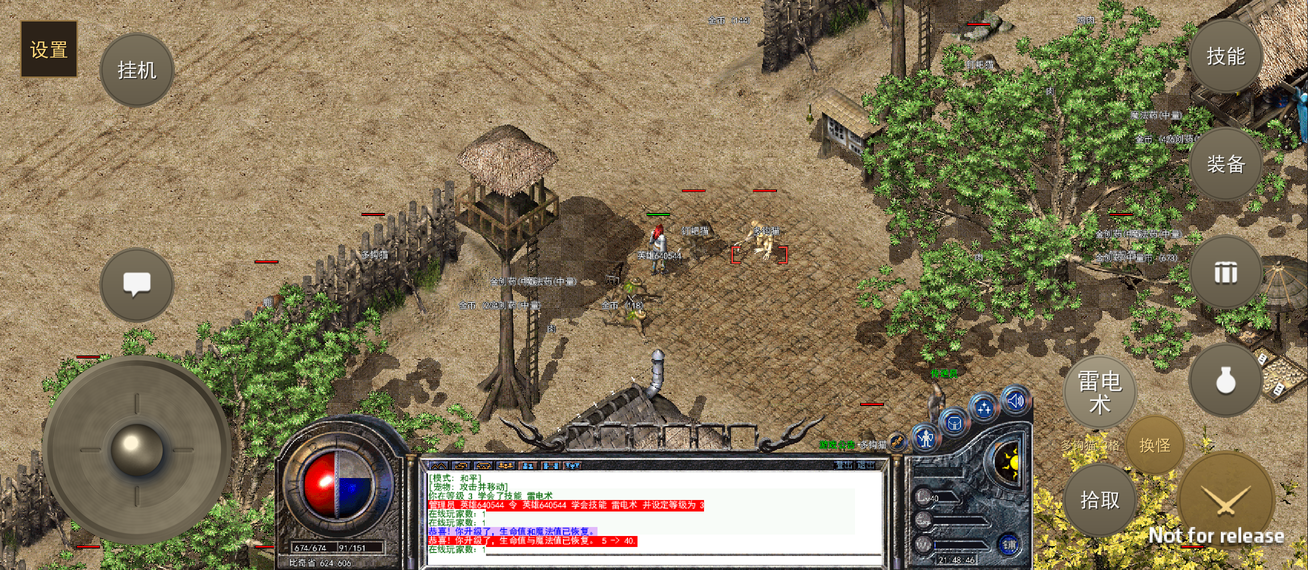
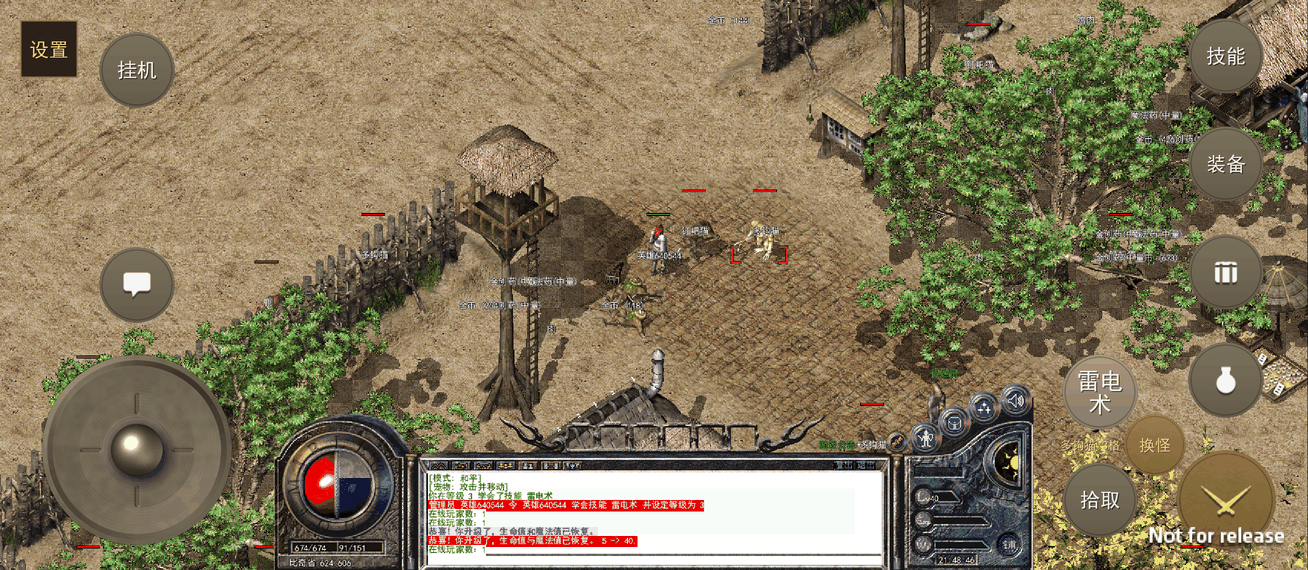
README 与实际代码对齐；补社区文件；修 LICENSE 被识别成 NOASSERTION
README 重写
- 顶部加 release / MIT / 引擎三个 badge，并把 APK 下载入口放到最显眼处
- 新增「自己编译需要什么」：如实列出三样缺件（MirClientCore.dll / Resources 图集 /
  StreamingAssets 682MB），并写明「现在 clone 下来是打不开也编译不过的」
- 场景：写明 13 个里 12 个是空的、唯一进包的 P2.unity 是空场景、画面靠
  RuntimeInitializeOnLoadMethod 自举
- 格式：写明 %TAG 是团结私有 tag、.meta 的 guid 是 56 字符 base64，建议用团结 1.10.4
- 出包：改成命令行 -executeMethod P2Build.SetPathsOnly / BuildApk，并注明 P2Build
  没有 [MenuItem]，编辑器菜单里点不到
- 技能：33 个 → 3 个（火球 / 雷电 / 治愈，P0HSkill.cs:26-27 SK_COUNT = 3）
- 选角：建角 → 选角。创建/删除人物按钮是 NotWired，会提示「本版没接账号服务器」
- 联机：补上公网中继这一路（test.mosquitto.org，6 位 Crockford Base32 码，
  实测往返 0.3~1.7 秒），并说明为什么不直连（入站端口被运营商封）
- 邮件 / 回购：从「已完成」移回「空壳」
- 去掉查不到出处的数字：85%/88% 进度、IoU = 1.0000、4.66 万行、
  27→18 本书、3081→2420 刷怪点
- 许可：拆成三段 —— 代码 MIT / MirClientCore 源自 Crystal (GPL v2) / 素材归原厂

LICENSE
- 切掉文末「NOTE ON ASSETS」附加段，恢复标准 MIT（1497 → 1066 字节），
  GitHub 才能识别成 MIT 而不是 NOASSERTION。素材与许可说明已移入 README。

截图
- 三张 PNG 做调色板量化压缩，4.0 MB → 1.5 MB（meanAbsDiff ≈ 3.2，肉眼看不出）

新增
- .gitattributes：统一 eol=lf，二进制类型标注，Unity YAML 走 unityyamlmerge
- CONTRIBUTING.md：反馈入口、Bug 报告必填项、禁止附带任何游戏素材
- .github/ISSUE_TEMPLATE/bug_report.md、feature_request.md

diff --git a/CONTRIBUTING.md b/CONTRIBUTING.md
@@ -1,0 +1,34 @@
+# 贡献与反馈
+
+这个项目是个人学习 Unity / 游戏客户端架构的实践工程，没有商业目标。欢迎提问题、报 bug、给建议。
+
+## 最快的反馈方式
+
+**开 Issue**：<https://github.com/haoxu-dev/mir2-mobile/issues/new>
+
+开之前请先搜一下有没有人已经提过同样的问题。
+
+报告问题时请带上：
+
+- **手机型号 + 安卓版本**（例如「小米 13 / Android 14」）
+- **APK 版本号**（游戏里「设置」页能看到，形如 `1.76.20261118`）
+- **怎么复现**：从启动到出问题的步骤，越具体越好
+- **日志**（如果拿得到）：`adb logcat -s Tuanjie` 的输出
+- 有截图或录屏更好
+
+## 想改代码
+
+1. Fork 本仓库
+2. 新建分支（`git checkout -b fix/xxx`）
+3. 改完提交，说明「改了什么、为什么改」
+4. 开 Pull Request
+
+代码风格上没有强制规范，跟着周围代码的写法来就行。
+
+## 关于素材
+
+**请不要在 Issue 或 PR 里附带任何游戏素材**（`.Lib` / `.WIL` / `.map` / 音效文件）。这些东西版权归原厂，本仓库不存放也不接收。详见 README 的「关于素材」一节。
+
+## 关于版权
+
+本项目仅用于个人学习研究，不对《热血传奇》相关素材、名称、商标主张任何权利。如果权利人认为本仓库有问题，请开 Issue，会立即处理。

diff --git a/.github/ISSUE_TEMPLATE/bug_report.md b/.github/ISSUE_TEMPLATE/bug_report.md
@@ -1,0 +1,33 @@
+---
+name: Bug 报告
+about: 游戏装不上、闪退、画面不对、联机连不上
+title: "[Bug] "
+labels: bug
+---
+
+## 问题是什么
+
+<!-- 一句话说清楚。比如「安卓 14 上开服后另一台手机搜不到房间」 -->
+
+## 怎么重现
+
+1.
+2.
+3.
+
+## 环境
+
+- 手机型号：
+- 安卓版本：
+- APK 版本号（游戏内「设置」页可见，形如 `1.76.20261118`）：
+
+## 日志 / 截图
+
+<!-- adb logcat -s Tuanjie 的输出，或者截图、录屏 -->
+
+```
+```
+
+## 补充
+
+<!-- 其它你觉得有用的信息。注意：请不要附带任何游戏素材文件（.Lib/.WIL/.map/音效）。 -->

diff --git a/.github/ISSUE_TEMPLATE/feature_request.md b/.github/ISSUE_TEMPLATE/feature_request.md
@@ -1,0 +1,18 @@
+---
+name: 功能建议
+about: 希望加什么东西，或者觉得哪里可以做得更好
+title: "[建议] "
+labels: enhancement
+---
+
+## 想要什么
+
+<!-- 一句话说清楚。 -->
+
+## 为什么
+
+<!-- 解决了什么问题 / 为什么值得做 -->
+
+## 大概怎么做（可选）
+
+<!-- 有想法就写，没有也行。 -->
